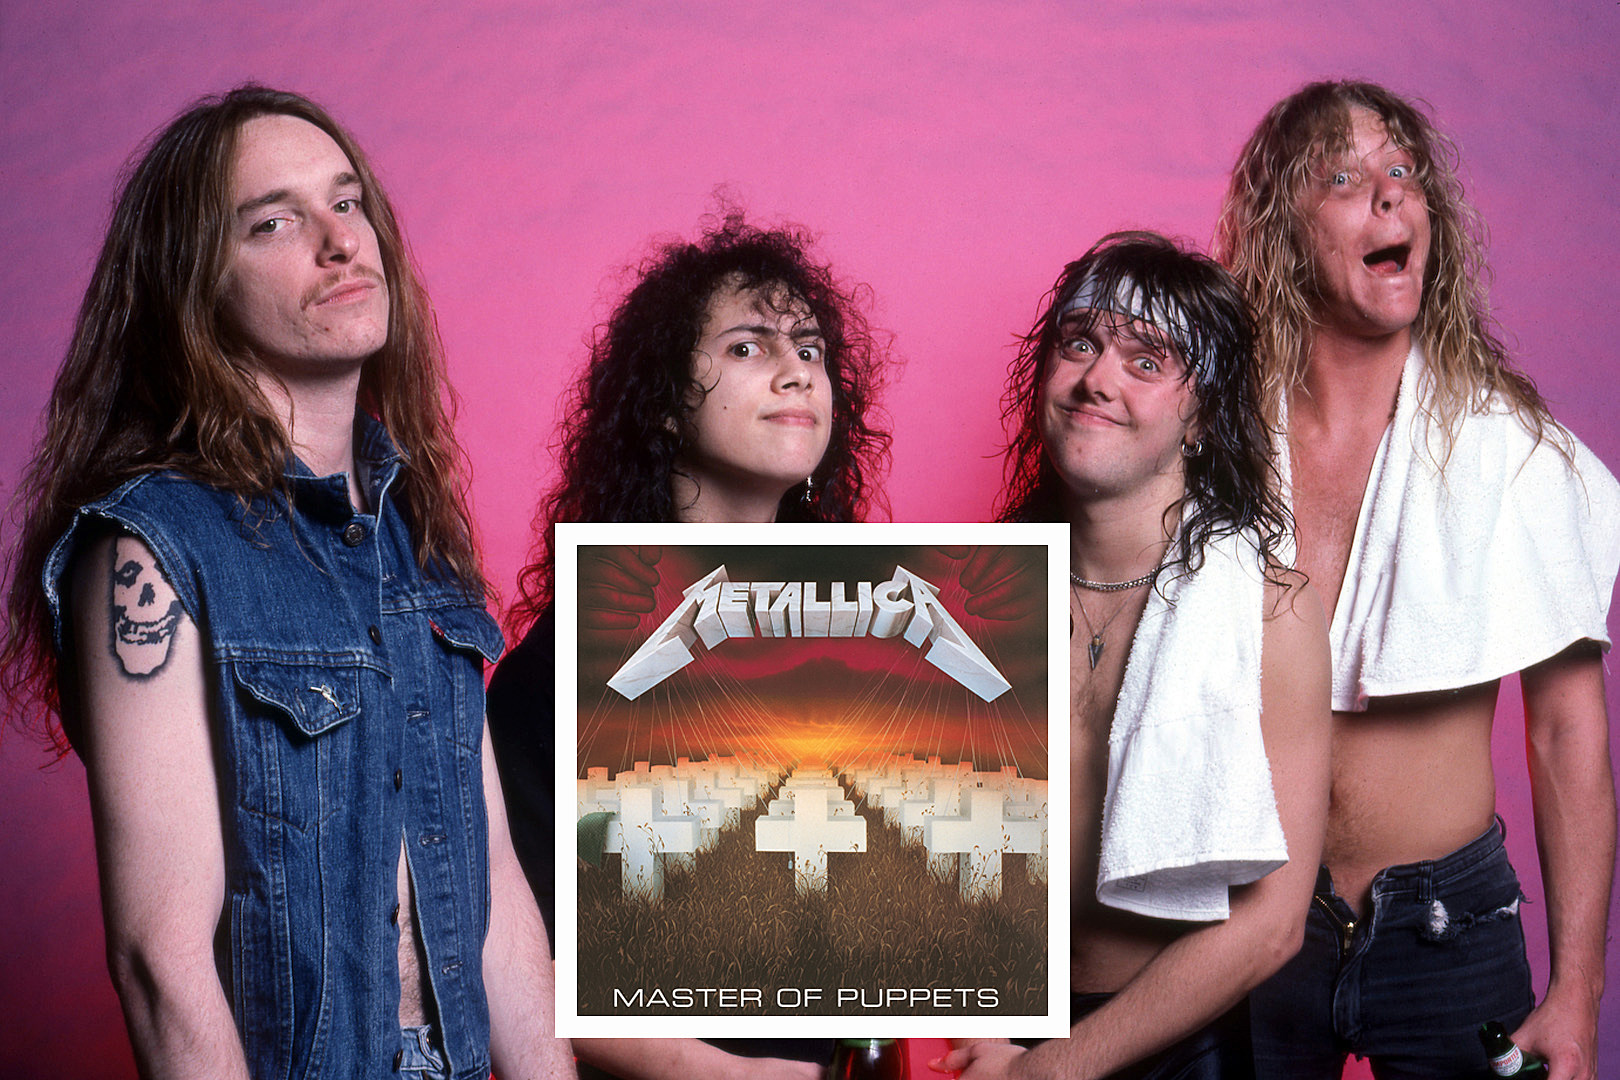
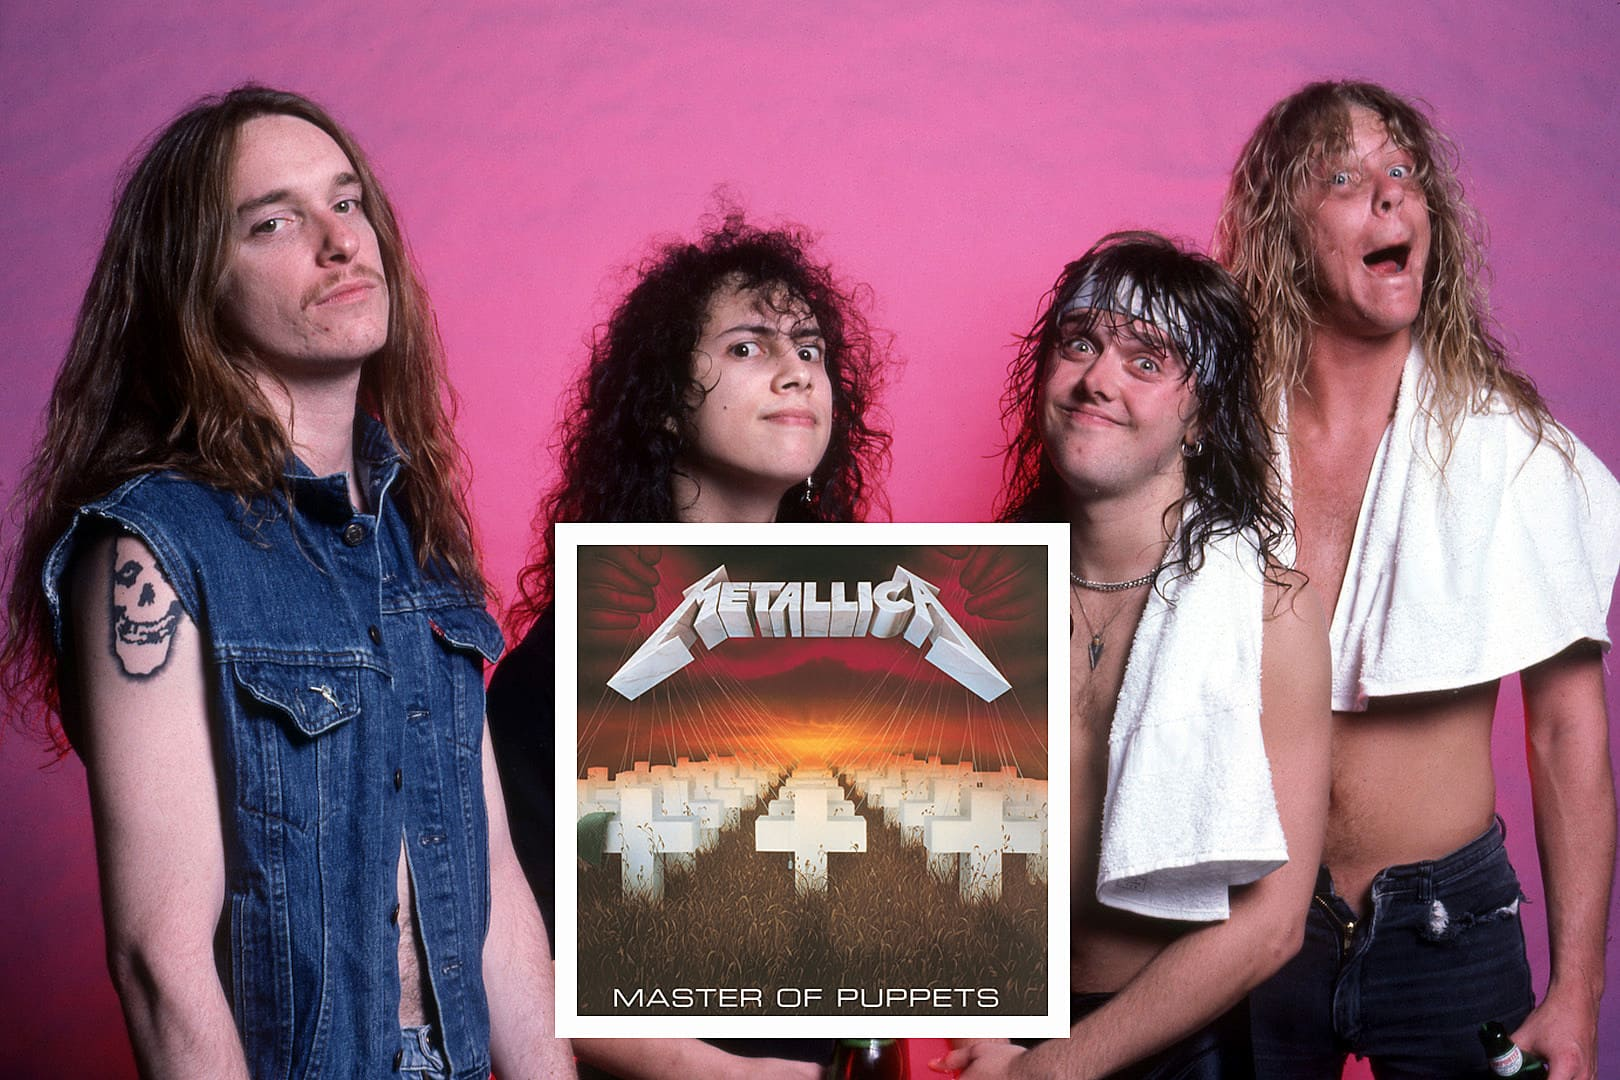
reducido el tamaño de las imagenes

diff --git a/pages/kirk.html b/pages/kirk.html
@@ -62,7 +62,7 @@
     <main>
         <section class="section">
             <h1 class="mainTitle">Kirk Hammett</h1>
-            <img src="../img/kirkHammett.jpeg" alt="Kirk Hammet" class="imgTitle">
+            <img src="../img/kirkHammett.jpg" alt="Kirk Hammet" class="imgTitle">
             <p>Kirk Lee Hammett (San Francisco, California, 18 de noviembre de 1962) es un guitarrista estadounidense,
                 actualmente miembro de la banda de thrash metal Metallica. Está considerado como el noveno mejor
                 guitarrista
